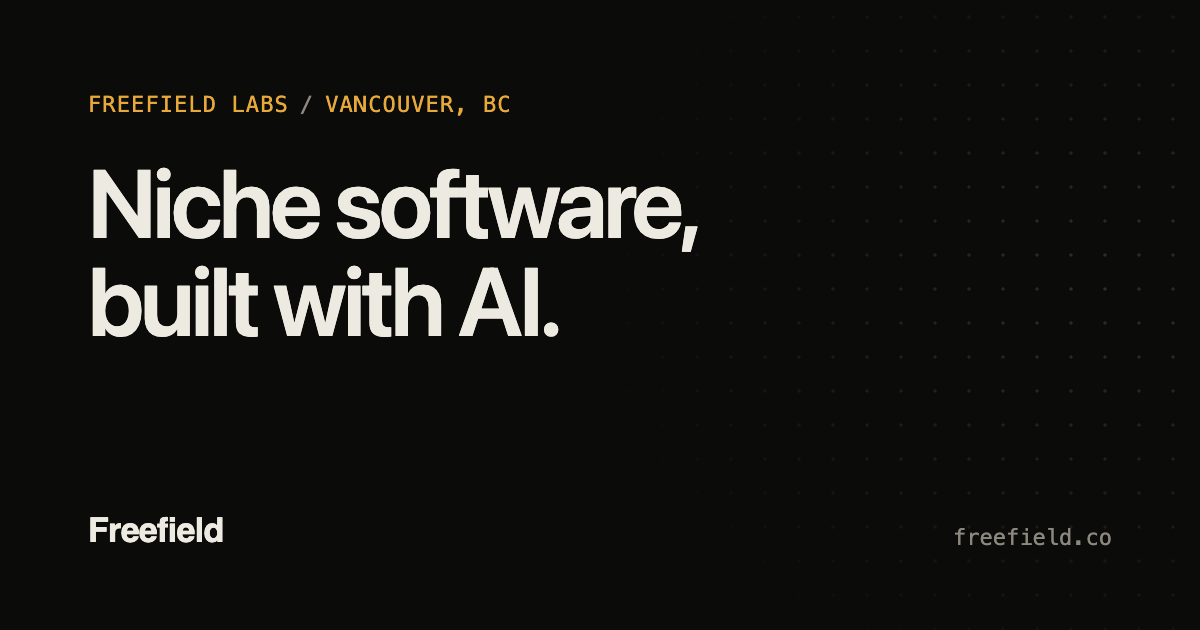
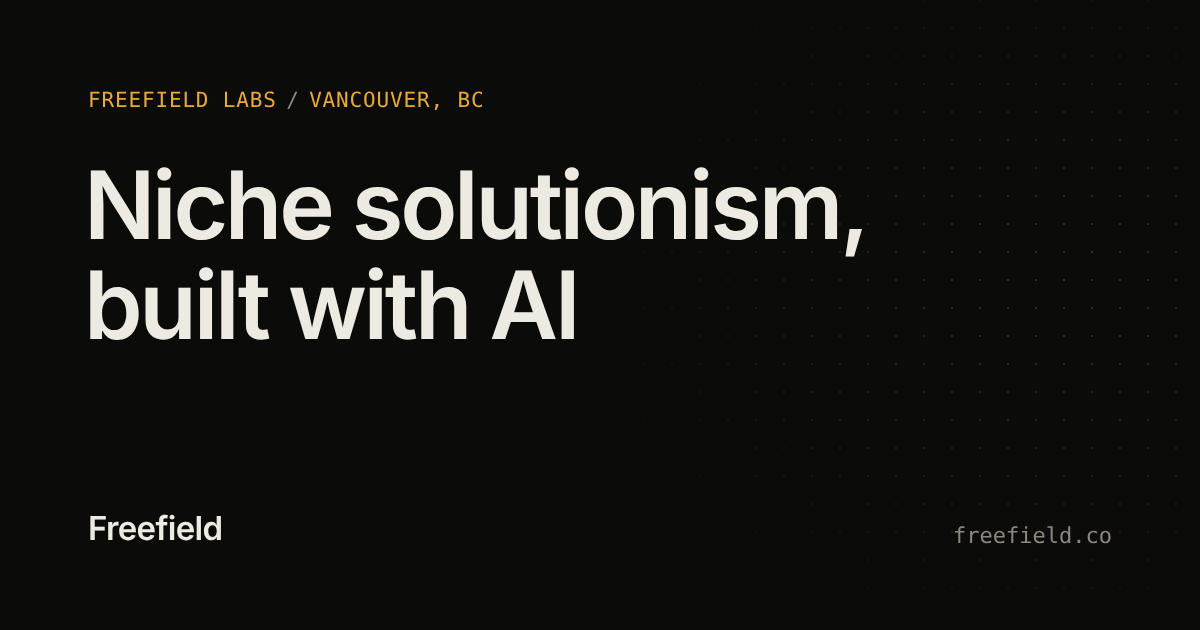
Homepage: "Niche solutionism, built with AI" (#2)
* Fix HTML validation errors

- Uppercase the DOCTYPE on all pages (html-validate doctype-style).
- Move the "Fairplay resources" label from the <ul> to a wrapping
  <nav>, where aria-label is allowed. Layout is unchanged.

Claude-Session: https://claude.ai/code/session_01YTG6rrJb7hz6UzpLhCauVd

* Homepage: new headline, drop second intro line

Claude-Session: https://claude.ai/code/session_01YTG6rrJb7hz6UzpLhCauVd

* Match tab title, share title and share image to new headline

Claude-Session: https://claude.ai/code/session_01YTG6rrJb7hz6UzpLhCauVd

---------

diff --git a/index.html b/index.html
@@ -3,20 +3,20 @@
 <head>
   <meta charset="utf-8">
   <meta name="viewport" content="width=device-width, initial-scale=1">
-  <title>Freefield Labs — Niche software, built with AI</title>
+  <title>Freefield Labs — Niche solutionism, built with AI</title>
   <meta name="description" content="Freefield Labs is an independent software studio in Vancouver, BC. We make Fairplay, the iOS app for posting plans and filling spots with friends.">
   <link rel="canonical" href="https://freefield.co/">
   <meta name="theme-color" content="#0b0b0a">
 
   <meta property="og:type" content="website">
   <meta property="og:site_name" content="Freefield Labs">
-  <meta property="og:title" content="Freefield Labs — Niche software, built with AI">
+  <meta property="og:title" content="Freefield Labs — Niche solutionism, built with AI">
   <meta property="og:description" content="An independent software studio in Vancouver, BC. Makers of Fairplay.">
   <meta property="og:url" content="https://freefield.co/">
   <meta property="og:image" content="https://freefield.co/assets/og.png">
   <meta property="og:image:width" content="1200">
   <meta property="og:image:height" content="630">
-  <meta property="og:image:alt" content="Freefield Labs — Niche software, built with AI.">
+  <meta property="og:image:alt" content="Freefield Labs — Niche solutionism, built with AI">
   <meta name="twitter:card" content="summary_large_image">
 
   <link rel="icon" href="/favicon.svg" type="image/svg+xml">
@@ -61,9 +61,8 @@
     <section class="hero" aria-labelledby="hero-title">
       <div class="wrap">
         <span class="label">Freefield Labs<span class="sep">/</span>Vancouver, BC</span>
-        <h1 id="hero-title">Niche software,<br> built with AI.</h1>
+        <h1 id="hero-title">Niche solutionism,<br> built with AI</h1>
         <p class="sub">An independent software studio in Vancouver, BC.</p>
-        <p class="sub">We build focused apps for specific problems, and we use AI throughout our process to design, build and ship them.</p>
       </div>
     </section>
 
